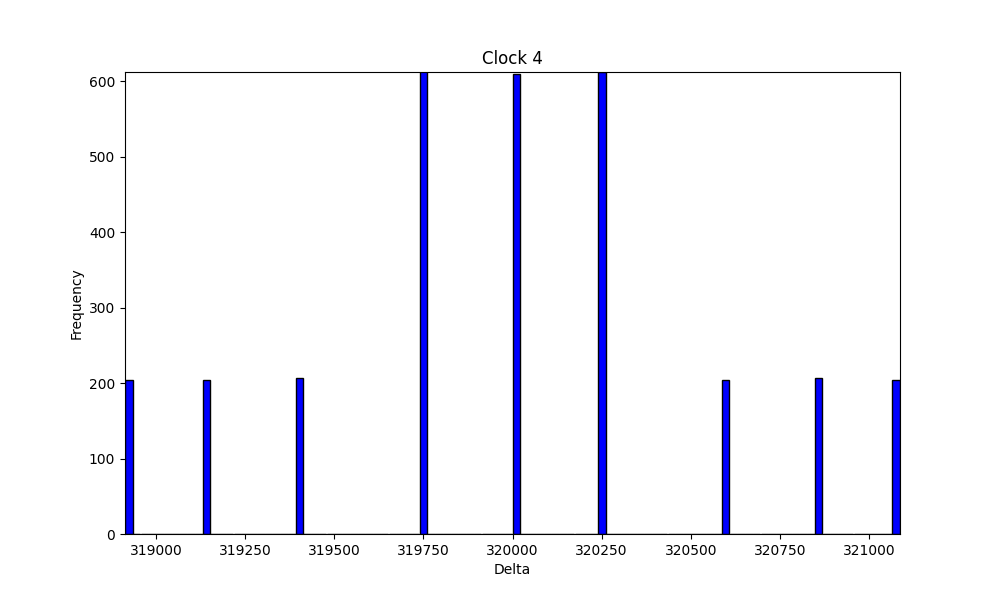
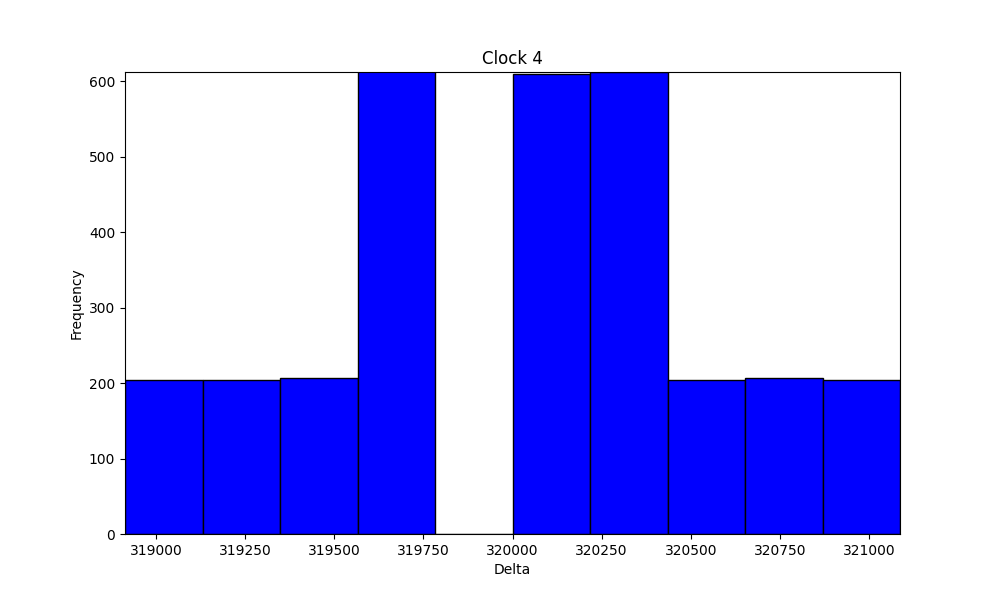
cumulative plots

Changed region(s): [[0.496, 0.12, 0.899, 0.9], [0.124, 0.12, 0.434, 0.9]]

diff --git a/semaphores/readLog.py b/semaphores/readLog.py
@@ -1,6 +1,8 @@
 import pandas as pd
 import re
 import matplotlib.pyplot as plt
+import numpy as np
+import os
 
 def read_log_to_df(file_path):
     """
@@ -36,7 +38,7 @@ def read_log_to_df(file_path):
 
     return df
 
-def plot_df(df, bins=100, output_dir='plots'):
+def plot_df(df, bins=10, output_dir='plots'):
     """
     Plots a histogram for each 'Clock' in the DataFrame, showing the distribution of 'Delta'.
     Saves each plot as an individual file in the specified output directory.
@@ -86,6 +88,50 @@ def plot_df(df, bins=100, output_dir='plots'):
         # Close the plot to free memory
         plt.close()
 
+def plot_cumulative_probability(df, output_dir='cumulative_plots'):
+    """
+    Plots a cumulative probability curve for each 'Clock' in the DataFrame.
+    Saves each plot as an individual file in the specified output directory.
+
+    Args:
+        df (pd.DataFrame): The DataFrame containing the data to plot.
+        output_dir (str): The directory where the plots will be saved (default is 'cumulative_plots').
+    """
+    # Create output directory if it does not exist
+    if not os.path.exists(output_dir):
+        os.makedirs(output_dir)
+
+    # Get unique clock values
+    clocks = df['Clock'].unique()
+
+    # Plot for each clock separately
+    for clock in clocks:
+        # Filter the DataFrame for the current clock
+        clock_data = df[df['Clock'] == clock]['Delta']
+
+        # Sort the Delta values for cumulative probability calculation
+        sorted_deltas = np.sort(clock_data)
+        cumulative_prob = np.linspace(0, 1, len(sorted_deltas))
+
+        # Create a new figure for each clock
+        plt.figure(figsize=(10, 6))
+
+        # Plot the cumulative probability curve
+        plt.plot(sorted_deltas, cumulative_prob, marker='.', linestyle='-', color='b')
+
+        # Set the title and labels
+        plt.title(f'Cumulative Probability for Clock {clock}')
+        plt.xlabel('Delta')
+        plt.ylabel('Cumulative Probability')
+
+        # Save the plot as a file
+        plot_filename = f'{output_dir}/clock_{clock}_cumulative.png'
+        plt.savefig(plot_filename)
+
+        # Close the plot to free memory
+        plt.close()
+
+
 if __name__ == "__main__":
     # Set the log file path
     file_path = 'output.log'  # Replace with your actual file path
@@ -95,6 +141,7 @@ if __name__ == "__main__":
 
     # Display the DataFrame
     plot_df(df)
+    plot_cumulative_probability(df)
 
     # Optionally, save it to a CSV file
     df.to_csv('output.csv', index=False)
